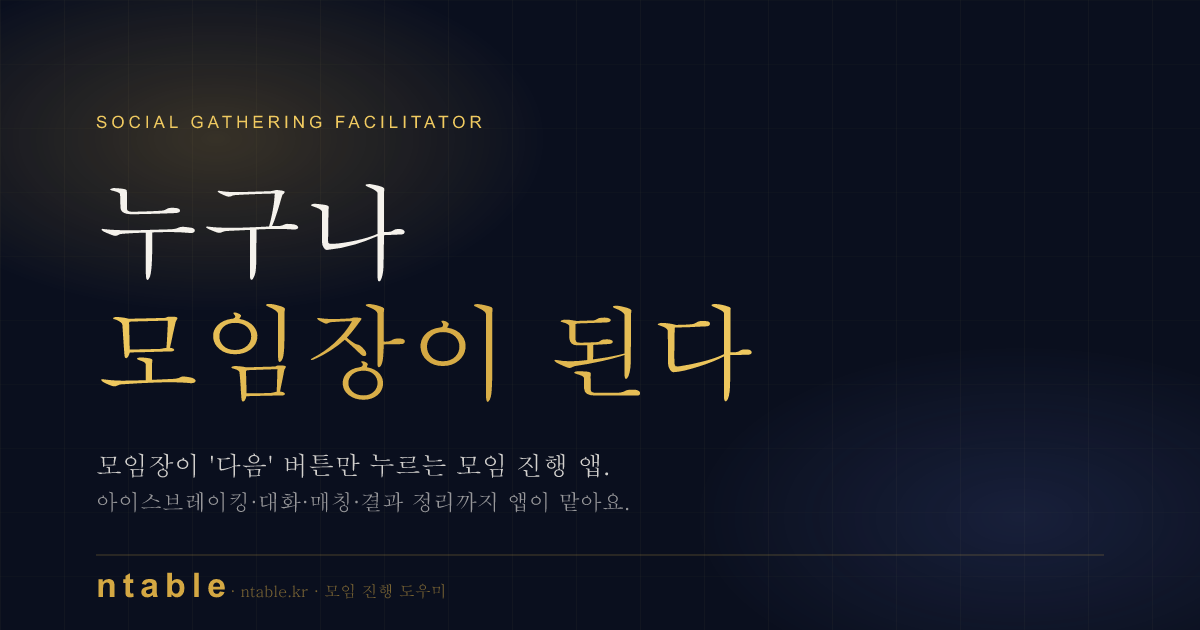
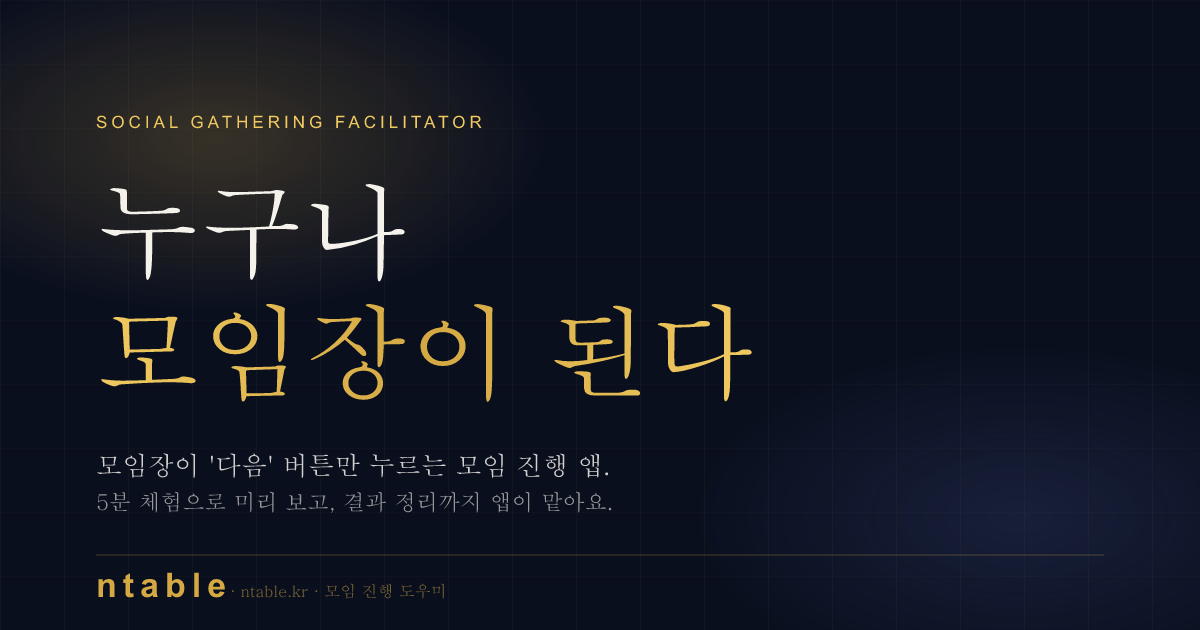
chore(landing): R1 roadmap Phase 1 데모 가동 시그널 + R3 og:build npm script + og-image.png 재생성 (PNG 시각 검증 권장)

Changed region(s): [[0.0617, 0.7841, 0.5242, 0.8143]]

diff --git a/CONTENT_GUIDE.md b/CONTENT_GUIDE.md
@@ -152,7 +152,8 @@ packs:
 - **내부 페이지**: `/privacy.html`, `/terms.html` — `.html` 확장자 유지
 - **앵커 이동**: `#hero`, `#faq` — 섹션 id
 - **이메일**: `mailto:` 프리픽스 없이 주소만 적으면 됨 (`[email redacted]`)
-- **OG 이미지 등 공유 이미지**: `public/` 폴더에 저장, URL은 `/og-image.png` 형태 (PNG 공식. SVG 원본은 `og-image.svg`로 보존, 카피 변경 시 둘 다 갱신)
+- **OG 이미지 등 공유 이미지**: `public/` 폴더에 저장, URL은 `/og-image.png` 형태 (PNG 공식. SVG 원본은 `og-image.svg`로 보존)
+  - SVG 카피 변경 후 **로컬에서 `npm run og:build` 실행** → `public/og-image.png` 자동 갱신 → 결과 PNG를 viewer로 한 번 열어 한글 깨짐·시각 확인 → PNG도 함께 commit. CI(GitHub Actions)에는 hook되어 있지 않음 (Linux 환경에 한글 폰트·Cormorant Garamond 부재로 fallback 시각이 어색해질 수 있어 의도적으로 로컬 전용).
 
 ---
 